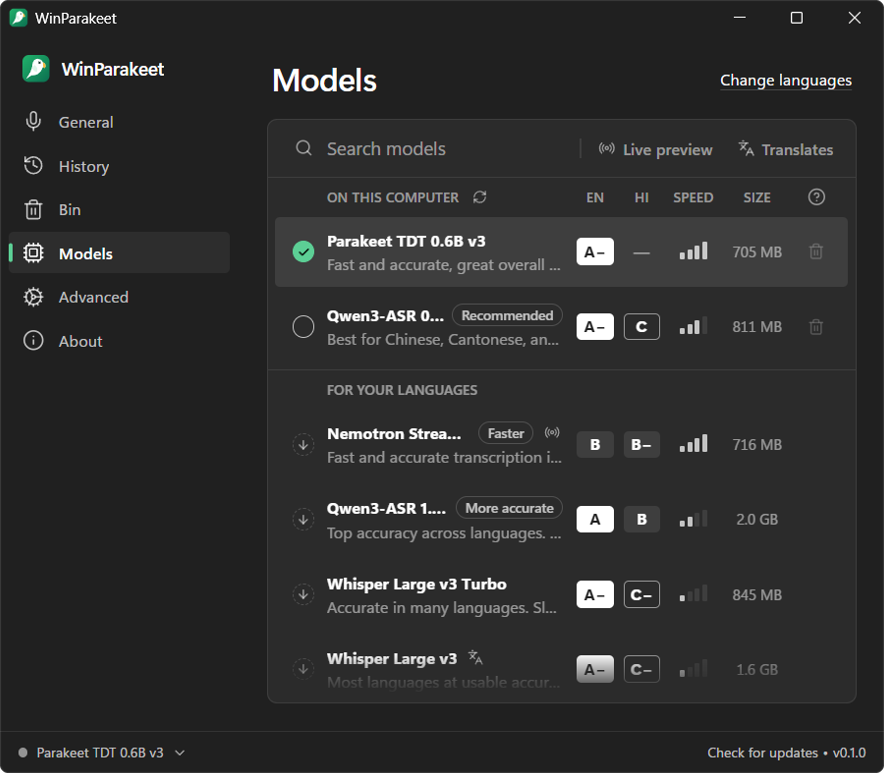
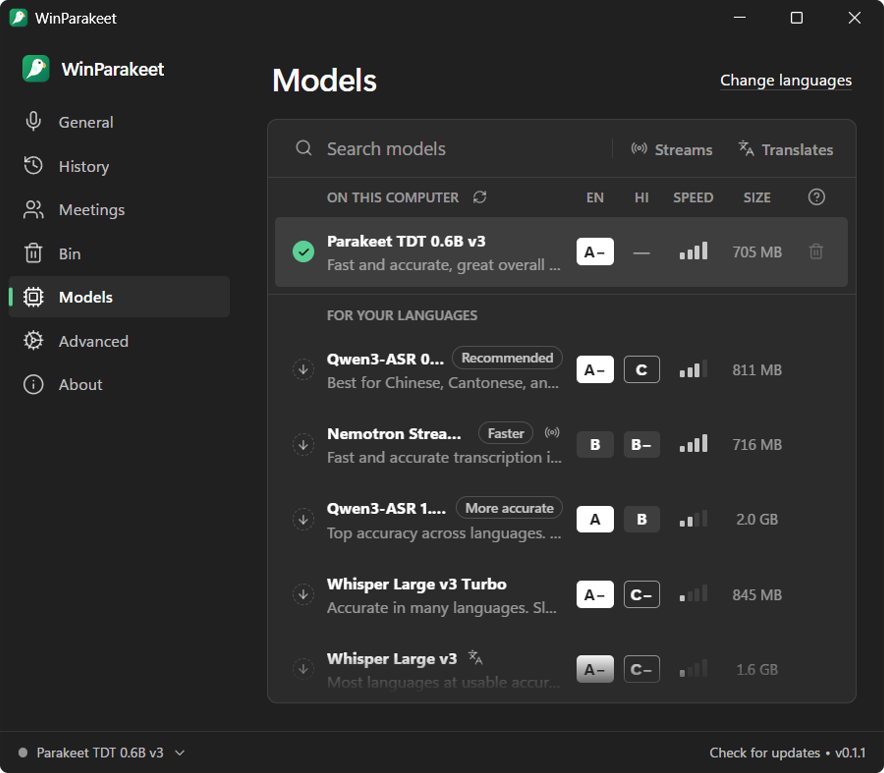
docs: meeting screenshots, and README claims the app backs
Add the meeting bar, the Meetings tab while a meeting records and the
meeting settings; retake the dictation pill (new look) and Models (its
filter is now "Streams"). Taken from a demo copy with made-up meetings.

The README now says only what the app does: no "does what Handy does"
above features Handy lacks, no recovery after a Windows crash (only a
crash or kill of the app was tested), no line about dropping the echo of
speakers until that's tried on real speakers, and the Models caption no
longer says only some models show live text.

diff --git a/README.md b/README.md
@@ -11,24 +11,23 @@ Private, offline speech-to-text for Windows. Dictate into any app with a global 
 
 WinParakeet is built on [Handy](https://github.com/cjpais/Handy) by CJ Pais and contributors. See [Built on Handy](#built-on-handy).
 
-## Status
-
-Today WinParakeet does what Handy 0.10 does, with a Windows-first focus:
+## Dictation
 
 - Hold or tap a shortcut, speak, and the text is pasted where your cursor is.
 - Local models through [transcribe.cpp](https://github.com/handy-computer/transcribe.cpp) (ggml/GGUF): NVIDIA Parakeet TDT v3 and v2, Whisper, Moonshine, SenseVoice and more, with Vulkan GPU acceleration.
+- The Live overlay (the default) shows your words while you talk, with any model: streaming models update as you speak, the others decode the recording again every 0.7 s or so. On a machine too slow for that, the text shows when you stop.
 - Transcribe audio and video files by dropping them on the window; history with playback.
-- Nothing is deleted behind your back: deleted entries, entries cleaned up from History and recordings you let go all land in the **Bin**, where you can restore them or delete them for good.
-- Keep only the text if you like: **Advanced → Clean Up History → Don't save recordings** stops writing dictation audio to disk, and asks what to do with the recordings you already have (keep them, or move all or the older ones to the Bin).
+- Deleted entries, entries removed by History cleanup, and recordings you stop keeping go to the **Bin**, where you can restore them or delete them for good.
+- **Advanced → Clean Up History → Don't save recordings** stops saving dictation audio, and asks what to do with the recordings you already have: keep them, or move all or the older ones to the Bin.
 - Optional LLM clean-up of transcripts through OpenAI-compatible endpoints (Ollama, LM Studio, or a cloud provider).
 
-While you hold the shortcut, a small pill at the bottom of the screen shows that it's listening:
+While you dictate, a pill shows the microphone level and a cancel button:
 
 <p align="center"><img src="docs/screenshots/recording-pill.png" alt="The recording pill: a green dot, the microphone level, and a cancel button" width="217"></p>
 
 ## Meetings
 
-The **Meetings** tab records a call without joining it: your microphone ("Me") and whatever the computer plays (the other side of a Teams, Zoom or Meet call) are recorded as two separate tracks. After the call both are transcribed on your machine, with timestamps, and the other side is split into speakers.
+The **Meetings** tab records a call without joining it: your microphone ("Me") and whatever the computer plays (the other side of a Teams, Zoom or Meet call) are recorded as two separate tracks. After the call both are transcribed on your machine, with timestamps.
 
 <p align="center">
   <picture>
@@ -37,24 +36,29 @@ The **Meetings** tab records a call without joining it: your microphone ("Me") a
   </picture>
 </p>
 
-- Start and stop from the Meetings tab, the tray menu, or `winparakeet.exe --toggle-meeting`. While a meeting records, a red bar sits where the dictation pill does, with the time, both sides' levels and a Stop button. Dictation keeps working during a meeting.
-- Speaker labels come from NVIDIA's Sortformer (an optional 139 MB download): up to four speakers on the other side of the call, and on your microphone too when several people in the room share it (for an in-person meeting, record only the microphone). Click a speaker to name them.
-- On speakers instead of headphones, your microphone also hears the other side; those lines are dropped from "Me" when the other side said them at the same time.
-- The audio is saved as you go: if WinParakeet or Windows crashes mid-call, the recording is recovered on the next launch.
-- Meetings have their own settings: what to record (both sides, only the microphone, or only system audio), which model transcribes them, and how long to keep the audio. It's kept by default, so you can **re-transcribe** a meeting later with a bigger model; or it can move to the Bin after transcription or after 7, 30 or 90 days. Transcripts always stay.
-- Export the transcript as text, Markdown, SRT or WebVTT subtitles, or JSON; save the audio as one WAV with both sides mixed (to transcribe it elsewhere), or open the folder with each side's own track.
+While a meeting records, a red bar shows the elapsed time, the microphone and PC audio levels, and a Stop button:
+
+<p align="center"><img src="docs/screenshots/meeting-bar.png" alt="The meeting bar: a red dot, Recording, the elapsed time, the microphone and PC audio levels, and a Stop button" width="359"></p>
+
+- Start and stop from the Meetings tab, the tray menu, or `winparakeet.exe --toggle-meeting`. You can dictate during a meeting.
+- Speaker labels (optional, a 139 MB download of NVIDIA's Sortformer) tell apart up to four speakers on each side. Click a speaker to name them.
+- The audio is written to disk while it records; if WinParakeet crashes or is killed mid-call, the recording is recovered on its next launch.
+- Meetings have their own settings: what to record (both sides, only the microphone, or only system audio), which model transcribes them, and how long to keep the audio. It's kept by default, so you can **re-transcribe** a meeting later with another model; or it can move to the Bin after transcription or after 7, 30 or 90 days. Transcripts stay.
+- Export the transcript as text, Markdown, SRT or WebVTT subtitles, or JSON; save the audio as one WAV with both sides mixed, or open the folder with each side's track.
 - Deleting a meeting, or only its audio, moves it to the Bin.
 
 Not yet: a live transcript during the call, summaries and chat through your own LLM endpoint.
 
 ## Screenshots
 
-|                                                                                                              |                                                                                                                     |
-| ------------------------------------------------------------------------------------------------------------ | ------------------------------------------------------------------------------------------------------------------- |
-| <img src="docs/screenshots/bin.png" alt="The Bin page with a deleted dictation and a recording" width="420"> | <img src="docs/screenshots/models.png" alt="The Models page, grading each model for English and Hindi" width="420"> |
-| **Bin:** deleted dictations and recordings wait here until you restore them or delete them for good.         | **Models:** graded for the languages you speak, with sizes, speed, and which ones show live text.                   |
-| <img src="docs/screenshots/stop-saving-recordings.png" alt="The Stop saving recordings dialog" width="420">  | <img src="docs/screenshots/general.png" alt="The General settings page" width="420">                                |
-| **Stop saving recordings:** keep the ones you have, or move all or the older ones to the Bin.                | **General:** the shortcut, how it behaves, and your languages.                                                      |
+|                                                                                                                  |                                                                                                                        |
+| ---------------------------------------------------------------------------------------------------------------- | ---------------------------------------------------------------------------------------------------------------------- |
+| <img src="docs/screenshots/bin.png" alt="The Bin page with a deleted dictation and a recording" width="420">     | <img src="docs/screenshots/models.png" alt="The Models page, grading each model for English and Hindi" width="420">    |
+| **Bin:** deleted dictations and recordings, until you restore them or delete them for good.                      | **Models:** graded for the languages you speak, with size, speed, and which ones stream.                               |
+| <img src="docs/screenshots/stop-saving-recordings.png" alt="The Stop saving recordings dialog" width="420">      | <img src="docs/screenshots/general.png" alt="The General settings page" width="420">                                   |
+| **Stop saving recordings:** keep the ones you have, or move all or the older ones to the Bin.                    | **General:** the shortcut, how it behaves, and your languages.                                                         |
+| <img src="docs/screenshots/meeting-recording.png" alt="The Meetings tab while a meeting records" width="420">    | <img src="docs/screenshots/meeting-settings.png" alt="The meeting settings" width="420">                               |
+| **Meetings:** a recording in progress, with the elapsed time and both sides' levels, above the list of meetings. | **Meeting settings:** what to record, which model transcribes meetings, speaker labels, and whether to keep the audio. |
 
 ## Install
 
